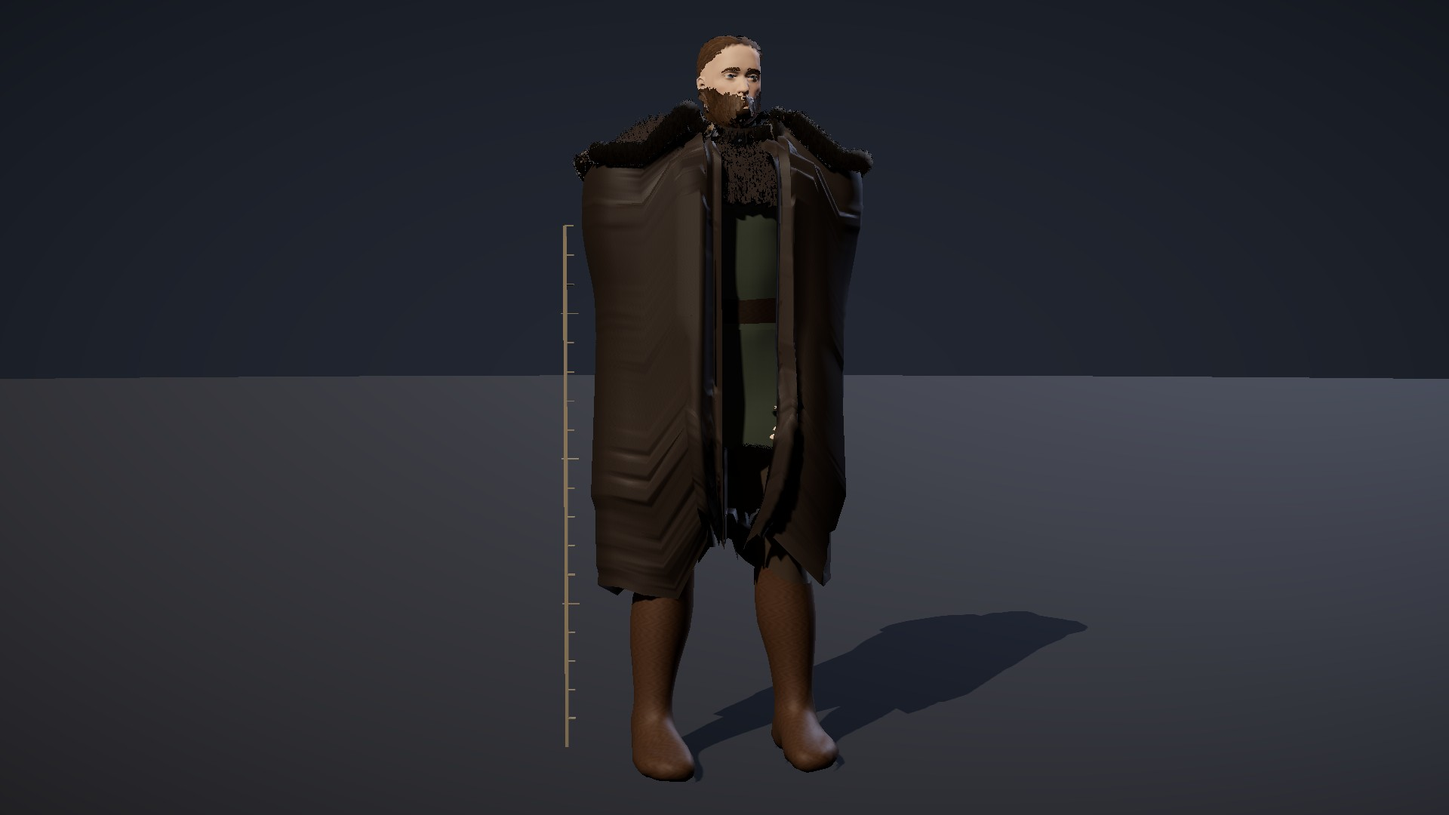
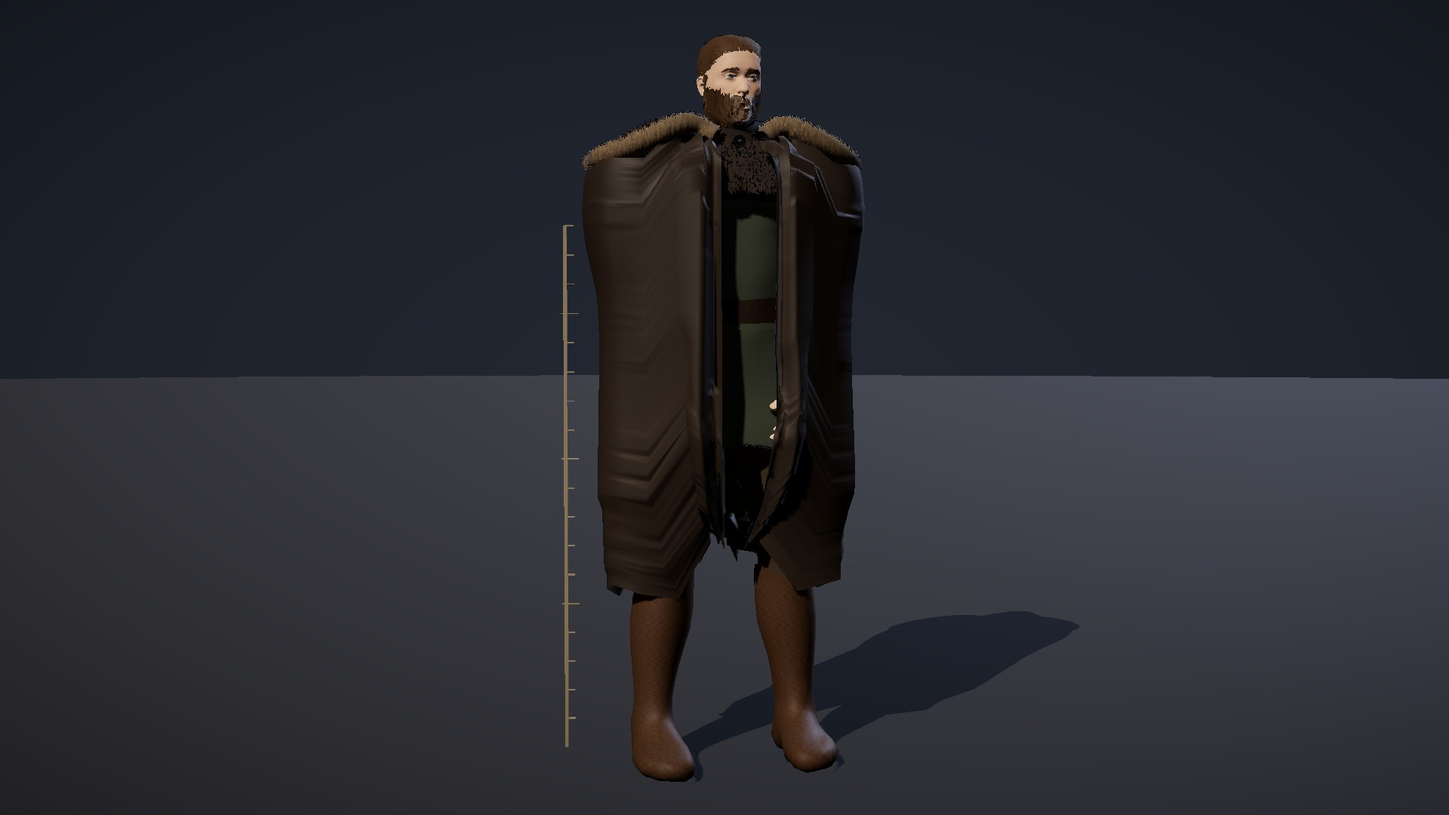
Bodies: Session 1931 — the fur collar turned out, on the hood's line
The cloak's six fur-collar shells were the last tubeGeom roll wound inward: their
shadow lookup fell inside the roll and a tan collar read near black. Turned out,
and laid on hoodLine (3 cm) since the raw ring's repeats left a sixth facing in.
builder.check 680/680 (one new check), f4people 1/1, bundle rebuilt.

Claude-Session: https://claude.ai/code/session_019eFMMoaECGLJPKNGN5rgvg

diff --git a/vendor/people.builder.js b/vendor/people.builder.js
@@ -1016,10 +1016,10 @@ function mergeGeoms(gs) { const pos = [], idx = []; let n = 0; for (const g of g
   const g = new THREE.BufferGeometry(); g.setAttribute('position', new THREE.Float32BufferAttribute(pos, 3)); g.setIndex(idx); g.computeVertexNormals(); return g; }
 // the rolled hood's centre line (Session 1255): the collar's ring repeats points where its columns meet and steps up and down between them,
 // so the roll was a crumpled tube. Points within 4 mm of the last are dropped, the rest smoothed four times (the ends kept) and laid
-// again 1.5 cm apart along a curve through them
-function hoodLine(raw) { const pts = [raw[0]]; for (const q of raw.slice(1)) if (q.distanceTo(pts[pts.length - 1]) > .004) pts.push(q.clone());
+// again 1.5 cm apart along a curve through them (`step`; the fur collar's, Session 1931, 3 cm)
+function hoodLine(raw, step = .015) { const pts = [raw[0]]; for (const q of raw.slice(1)) if (q.distanceTo(pts[pts.length - 1]) > .004) pts.push(q.clone());
   if (pts.length < 3) return raw; for (let it = 0; it < 4; it++) { const prev = pts.map(q => q.clone()); for (let i = 1; i < pts.length - 1; i++) pts[i].lerpVectors(prev[i], prev[i - 1].clone().add(prev[i + 1]).multiplyScalar(.5), .5); }
-  const c = new THREE.CatmullRomCurve3(pts); return c.getSpacedPoints(Math.max(4, Math.round(c.getLength() / .015))); }
+  const c = new THREE.CatmullRomCurve3(pts); return c.getSpacedPoints(Math.max(4, Math.round(c.getLength() / step))); }
 function turnOut(g) { const ix = g.index.array; for (let i = 0; i < ix.length; i += 3) { const t = ix[i + 1]; ix[i + 1] = ix[i + 2]; ix[i + 2] = t; } g.computeVertexNormals(); return g; }
 const lockMat = color => new THREE.MeshStandardMaterial({ map: lockTex(), color, roughness: .78 });
 // a braid's three locks and its core (Session 1501). The locks were laid on the braid's 1 cm line, about four and a half points to a
@@ -1471,10 +1471,13 @@ function buildCloak(G, body, byName, rnd) {
     const bm = new THREE.Mesh(bg, clothMat(sRGB(...D.cloakHem), 'wool', { side: THREE.DoubleSide, scale: 60 })); bm.name = 'cloakHem'; out.push(bm); }
   // a fur lining turned out at the collar (the Markmen's), or the hood rolled on the shoulders
   // (the rolled hood turned out, Session 1255: tubeGeom winds inward and the cloth is single-sided, so the roll drew its own far wall from inside.
-  // The fur collar's shells are left as they are: their shader reads the layer)
+  // The fur collar's shells were left as they were, since their shader reads the layer; Session 1931: it reads the layer and the rest
+  // position, never the normal, so they are turned out too, and the collar no longer reads its own shadow (it went near black). Its line is
+  // the hood's (hoodLine, 3 cm apart): the raw ring's 11 repeated points and a 22 cm jump gave tubeGeom no direction, and a sixth of each
+  // shell faced in)
   const ring = tops.map(t => t.start.clone().addScaledVector(t.n, .012).add(new THREE.Vector3(0, .012, 0)));
   let pointStats = null;
-  if (D.cloakFur && !burnousOn(D)) for (let s = 0; s < 6; s++) { const m = new THREE.Mesh(tubeGeom(ring, ring.map(() => .026 + s * .004), 8), shellMat(sRGB(...D.cloakFur), s, 6, { sx: 260, sy: 70, solid: s === 0 })); m.geometry.setAttribute('aBase', m.geometry.attributes.position); m.name = 'collar' + s; out.push(m); }
+  if (D.cloakFur && !burnousOn(D)) { const fl = hoodLine(ring, .03); for (let s = 0; s < 6; s++) { const m = new THREE.Mesh(turnOut(tubeGeom(fl, fl.map(() => .026 + s * .004), 8)), shellMat(sRGB(...D.cloakFur), s, 6, { sx: 260, sy: 70, solid: s === 0 })); m.geometry.setAttribute('aBase', m.geometry.attributes.position); m.name = 'collar' + s; m.userData.axis = { line: fl, sides: 8 }; out.push(m); } }
   else if (D.hood === 'down') { const kb = Math.round(-th0 / (th1 - th0) * (K - 1)), back = hoodLine(ring.slice(Math.max(0, kb - Math.round(K * .2)), kb + Math.round(K * .2)).map(q => q.clone().lerp(new THREE.Vector3(neck.x, q.y + .025, neck.z), .25))), m = new THREE.Mesh(turnOut(tubeGeom(back, back.map((_, i) => .03 + .018 * Math.sin(Math.PI * i / (back.length - 1))), 10)), clothMat(sRGB(...D.cloak).multiplyScalar(.92), 'wool', { scale: 26, ...cloakPattern(D, [neck.x, neck.z], .2) })); m.geometry.setAttribute('aBase', m.geometry.attributes.position); m.geometry.setAttribute('aTart', m.geometry.attributes.position); m.name = 'hood'; m.userData.axis = { line: back, sides: 10 }; out.push(m);
     if (burnousOn(D)) { const B = buildBurnousPoint(cols, R, kb, neck, back[Math.floor(back.length / 2)].y, D); out.push(...B.meshes); pointStats = B.stats; } }
   // the brooch at the throat, where the two front columns meet

diff --git a/docs/prototypes/levelup/people.js b/docs/prototypes/levelup/people.js
@@ -715,10 +715,10 @@ function mergeGeoms(gs) { const pos = [], idx = []; let n = 0; for (const g of g
   const g = new THREE.BufferGeometry(); g.setAttribute('position', new THREE.Float32BufferAttribute(pos, 3)); g.setIndex(idx); g.computeVertexNormals(); return g; }
 // the rolled hood's centre line (Session 1255): the collar's ring repeats points where its columns meet and steps up and down between them,
 // so the roll was a crumpled tube. Points within 4 mm of the last are dropped, the rest smoothed four times (the ends kept) and laid
-// again 1.5 cm apart along a curve through them
-function hoodLine(raw) { const pts = [raw[0]]; for (const q of raw.slice(1)) if (q.distanceTo(pts[pts.length - 1]) > .004) pts.push(q.clone());
+// again 1.5 cm apart along a curve through them (`step`; the fur collar's, Session 1931, 3 cm)
+function hoodLine(raw, step = .015) { const pts = [raw[0]]; for (const q of raw.slice(1)) if (q.distanceTo(pts[pts.length - 1]) > .004) pts.push(q.clone());
   if (pts.length < 3) return raw; for (let it = 0; it < 4; it++) { const prev = pts.map(q => q.clone()); for (let i = 1; i < pts.length - 1; i++) pts[i].lerpVectors(prev[i], prev[i - 1].clone().add(prev[i + 1]).multiplyScalar(.5), .5); }
-  const c = new THREE.CatmullRomCurve3(pts); return c.getSpacedPoints(Math.max(4, Math.round(c.getLength() / .015))); }
+  const c = new THREE.CatmullRomCurve3(pts); return c.getSpacedPoints(Math.max(4, Math.round(c.getLength() / step))); }
 function turnOut(g) { const ix = g.index.array; for (let i = 0; i < ix.length; i += 3) { const t = ix[i + 1]; ix[i + 1] = ix[i + 2]; ix[i + 2] = t; } g.computeVertexNormals(); return g; }
 const lockMat = color => new THREE.MeshStandardMaterial({ map: lockTex(), color, roughness: .78 });
 // a braid's three locks and its core (Session 1501). The locks were laid on the braid's 1 cm line, about four and a half points to a
@@ -1172,10 +1172,13 @@ function buildCloak(G, body, byName, rnd) {
     const bm = new THREE.Mesh(bg, clothMat(sRGB(...D.cloakHem), 'wool', { side: THREE.DoubleSide, scale: 60 })); bm.name = 'cloakHem'; out.push(bm); }
   // a fur lining turned out at the collar (the Markmen's), or the hood rolled on the shoulders
   // (the rolled hood turned out, Session 1255: tubeGeom winds inward and the cloth is single-sided, so the roll drew its own far wall from inside.
-  // The fur collar's shells are left as they are: their shader reads the layer)
+  // The fur collar's shells were left as they were, since their shader reads the layer; Session 1931: it reads the layer and the rest
+  // position, never the normal, so they are turned out too, and the collar no longer reads its own shadow (it went near black). Its line is
+  // the hood's (hoodLine, 3 cm apart): the raw ring's 11 repeated points and a 22 cm jump gave tubeGeom no direction, and a sixth of each
+  // shell faced in)
   const ring = tops.map(t => t.start.clone().addScaledVector(t.n, .012).add(new THREE.Vector3(0, .012, 0)));
   let pointStats = null;
-  if (D.cloakFur && !burnousOn(D)) for (let s = 0; s < 6; s++) { const m = new THREE.Mesh(tubeGeom(ring, ring.map(() => .026 + s * .004), 8), shellMat(sRGB(...D.cloakFur), s, 6, { sx: 260, sy: 70, solid: s === 0 })); m.geometry.setAttribute('aBase', m.geometry.attributes.position); m.name = 'collar' + s; out.push(m); }
+  if (D.cloakFur && !burnousOn(D)) { const fl = hoodLine(ring, .03); for (let s = 0; s < 6; s++) { const m = new THREE.Mesh(turnOut(tubeGeom(fl, fl.map(() => .026 + s * .004), 8)), shellMat(sRGB(...D.cloakFur), s, 6, { sx: 260, sy: 70, solid: s === 0 })); m.geometry.setAttribute('aBase', m.geometry.attributes.position); m.name = 'collar' + s; m.userData.axis = { line: fl, sides: 8 }; out.push(m); } }
   else if (D.hood === 'down') { const kb = Math.round(-th0 / (th1 - th0) * (K - 1)), back = hoodLine(ring.slice(Math.max(0, kb - Math.round(K * .2)), kb + Math.round(K * .2)).map(q => q.clone().lerp(new THREE.Vector3(neck.x, q.y + .025, neck.z), .25))), m = new THREE.Mesh(turnOut(tubeGeom(back, back.map((_, i) => .03 + .018 * Math.sin(Math.PI * i / (back.length - 1))), 10)), clothMat(sRGB(...D.cloak).multiplyScalar(.92), 'wool', { scale: 26, ...cloakPattern(D, [neck.x, neck.z], .2) })); m.geometry.setAttribute('aBase', m.geometry.attributes.position); m.geometry.setAttribute('aTart', m.geometry.attributes.position); m.name = 'hood'; m.userData.axis = { line: back, sides: 10 }; out.push(m);
     if (burnousOn(D)) { const B = buildBurnousPoint(cols, R, kb, neck, back[Math.floor(back.length / 2)].y, D); out.push(...B.meshes); pointStats = B.stats; } }
   // the brooch at the throat, where the two front columns meet

diff --git a/docs/backlog.md b/docs/backlog.md
@@ -554,7 +554,7 @@ Michael marked all 96 images of the intake on the review page: 63 KEEP and 33 NO
 - **Proportions for people** (look builder, `32-people.js`; OG-012, OG-095; Michael's 1 B): the heroic hybrid, about 1.80 m, slightly longer legs and broader shoulders than naturalistic, so a figure reads at a distance and in a fight. Leave room for the short Old Blood and the tall Markmen on either side.
 - **The creator, with the four peoples** (interface; OG-050): a list of choices on the left, the portrait on the right, six builds (default, stout, lean, tall, young, mature), five silhouettes, a hair-and-beard strip. Its races become the four peoples, Old Blood included (§2.2).
 - **Children, the old and the hurt in towns** (look builder and systems; OG-081, OG-001, OG-065): child-scale people (the towns have only Finn), the elderly, scars and eyepatches, a veteran in a wheeled chair (Garrick), large and small builds. ~~**Scars and eyepatches**~~ — done, Session 1079 (bodies builder; `people.js` `scarSkin`, `G.scar`, `buildEyepatch`, `D.eyepatch`, `builder-hurt-*.jpg`: an old cut from over the brow across the eye to the cheek drawn in the skin's shader, paler, raised and stitched, a gap in the brow; a leather patch 5 by 3.8 cm spanning the socket 1.3 mm off the face on a cord looped over the far temple and the near ear, nothing through either; 1 man in 14 and 1 woman in 40 scarred, a quarter of them patched); ~~**Children**~~ — done, Session 1081 (bodies builder; MakeHuman's child targets in the pack, the age slider from 11, `rollGenome(seed, { people, child: true })`, `builder-children*.jpg`: 11 to 15 years old, 79 to 93 per cent of their people's stature, dressed as their people, nothing a grown body carries, cloaks cut to them; every hair style clear on a child of 11); ~~**The old**~~ — done, Session 1082 (bodies builder; `rollGenome(seed, { people, old: true })`, `pose.stoop`, `builder-old-*.jpg`: 64 to 90, the hair to white or iron grey, a stoop in the upper back on six in ten with the arms still plumb); ~~**The old's walking staff**~~ — done, Session 1085 (bodies builder; `people.js` `buildStaff`, `STAFFS`, `D.staff`, `D.staffMake`, `builder-staff-*.jpg`: in the right fist on the spear's grip, its foot on the ground, bent about a centimetre and true through the fist; a hazel staff with its root knob for the Gatelands, ash shod in iron for the Mark, olive with a bronze knob for Aurenne, and OG-042's and OG-065's tall staff carved in knotwork for the Old Blood; on 25 to 39 of sixty old, none of the grown or the children); ~~a grip that leans on the staff~~ — done, Session 1094 (`STAFF_ARM`: the forearm dropped 38° forward and down, the fist at the belt, 57 to 59 per cent up the body, the staff's foot 8 to 16 cm ahead of the toes; `builder-staff-*.jpg`); ~~the wheeled chair~~ — done, Session 1106 (bodies builder; `people.js` `buildChair`, `SEAT`, `D.chair`, `builder-chair-*.jpg`: Garrick seated, the thighs level and the shins sloped to a footboard, the forearms laid on the chair's arms with the palms turned down over their ends; an oak armchair built to the seated body, 7,700 tris, on two iron-tyred cart wheels 62 cm across and two small ones under the front legs, push handles behind; nothing that hangs to the ground is worn in it, and it is never rolled); ~~his black wolfhound~~ — done, Session 1107 (`creatures.js` `wolfhound`, `HOUNDS`, `creatures-hounds.jpg`: the kit's first dog, a rough-coated sighthound on the wolf's parts, 81 cm at the top of the legs against the grey wolf's 74, deep in the chest and tucked up in the loin, a long narrow head with its ears folded back, 33 bones, 40,164 tris); ~~the crossbow across his knees~~ — done, Session 1116 (`people.js` `buildLapCrossbow`, `builder-chair-crossbow*.jpg`: OG-065's long gun as the crossbow the catalogue asks for, laid level across the thighs over the knees, the bolt's face up, the butt to his right and the prod out past the left wheel, let down to 2 mm off the thighs and moved forward until nothing of it is in the chair or a hand; a crossbow asked with the chair now lies there instead of being dropped); ~~the hound sitting by the chair~~ — done, Session 1114 (`creatures.js` `GAITS.sit`, `sitBody`, `sitLeg`, `creatures-wolfhound-sit*.jpg`: a sit for any four-legged plan, the body pitched up about the shoulders until the haunch and shins are 5 mm off the ground, 52° on the hound, the forefeet where it stands, the hind legs folded with the hocks back and the toes 21 cm ahead of the hips, the tail laid back along the ground and curled round; on the wolfhound, and since Session 1115 on every plan built on the Ironwolf's, the red fox's or the Hollowcat's parts, eleven in all, each tail lifted only as far as its flesh needs); ~~the hound lying down~~ — done, Session 1117 (`GAITS.lie`, `lieLeg`, `creatures-wolfhound-lie*.jpg`: a sphinx's lie, lowered level until the belly and haunch are 5 mm off the ground, the withers from 81 to 24 cm, the forelegs laid forward from the elbow 12 cm ahead of where it stands, the hind legs folded as they sit, the head up); ~~the lie on the other sitters~~ — done, Session 1122 (all eleven plans lie, `creatures-lying.jpg`: the forearm left out of the drop's search and raised by its own, `C.sitF`, so the foxes' and cats' bodies come down to 5 mm and their forearms clear the ground); ~~the hound beside Garrick's chair in one picture~~ — done, Session 1123 (the builder's `with=PLAN` stage, `builder-chair-hound*.jpg`: the wolfhound lying 8 cm off his right wheel, its nose level with the footboard, or sitting 35 cm back, turning with him); ~~the lying head held up~~ — done, Session 1124 (`SIT.lieNeck`: the neck raised 0.3 rad along its bones and the head turned back level, 1 to 5 cm higher on all eleven); ~~the cats sit with their forefeet together~~ — done, Session 1126 (`sitTuck`, `creatures-cats-sit.jpg`, `creatures-hollowcat-sit-front.jpg`: the Hollowcat and both lynxes keep 30% of their forefeet's standing width, 1.5 cm off the middle against 5.0); ~~the cats' tail wrapped round~~ — done, Session 1130; owed: children under 11 (MakeHuman's baby targets), a walk that leans on the staff, the chair pushed (B4), and the game (after F4).
-- **The wardrobe matrix** (look builder, the builder's B2, `docs/design/character-builder.md`; OG-109, OG-110, OG-111): for each island, men's and women's workwear, everyday, formal, travel and winter dress, by class (commoner, merchant, noble, warrior, clergy, scholar), and children's clothes as small copies of their parents'. The Gatelands in wool, linen and leather, earth greens and muted blue, laced bodices, hooded cloaks, tartans a new note; the Mark in heavy wool with fur trims and woven bands; Aurenne in linen, cotton and silk, sashes, turbans and head scarves in saffron, red and teal. OG-110's half-length pairs and its swatches (weave, fur, leather, ironwork clasps) are the close-up reference for the cloth. The canon wins where the sheets drift: the Mark's soldiers in black and iron, and its “runic tattoos” are the gates' marks under the skin (§3.1), not ink. **The Gatelanders' waistcoat, Session 1143** (bodies builder; `people.js` `D.waistcoat`, `waistcoatLeather`, `buildButtons`, `builder-waistcoat-*.jpg`): OG-109's "tunics, waistcoats", a man's sleeveless piece over the tunic in earth green, brown, muted blue or a dark drab, or brown leather on three in ten, a V at the neck and six buttons down the closed front, ending under the belt; on 35% of Gatelander men from a stream of its own; the lapped front's edge drawn as its shadow, Session 1144 (`WAISTCOAT_EDGE`, `clothMat`'s `shade`); owed: the game (after F4), and the rest of the matrix (formal, travel and winter dress by class). **The Gatelanders' tartan, Session 1146** (bodies builder; `people.js` `TARTAN`, `D.tartan`, `D.tartanLine`, `builder-tartan-*.jpg`): OG-111's "tartans", a symmetric sett 16.8 cm across (the cloak's colour as the ground, two dark bands side by side, a fine overcheck) woven in a 2/2 twill on 1.5 mm threads in the shader. It is laid round the wearer from the back's middle, on the cloak, the cape and the hood up or down. Rolled on no one until Michael answers where it goes (DECISION #445); owed: that answer, the roll, and the game (after F4). **The Gatelanders' winter coat, Session 1147** (bodies builder; `people.js` `D.coat`, `D.coatFur`, `coatLen`, `coatOn`, `coatStats`, `builder-coat-*.jpg`): OG-109's winter column, "fur-lined winter coats": a wool coat over the tunic, sleeves to the wrist, a skirt flaring to mid-calf (`coatLen` .75; 0 a jacket, 1 the ankle), the right front lapped over the left and belted over; a fur trim at the collar, down the lapping edge, round the cuffs and the hem, seven shells cut from the regions they cover. It takes the place of the cloak, mantle, apron, sash, shoulder wrap, waistcoat and bodice, and gives way to a robe, mail, a tabard or the chair. Rolled on no one: who wears it, and when, is the season's (the game's) to say; owed: the Mark's fur-lined hooded coat, and the game (after F4). ~~**Worn in the game**~~ — done, Session 1763 (`hbSeasonDress`, `HB_WINTER`, `f4-winter.jpg`): in winter, out of doors, a Gatelander one in two (fur-trimmed on half), a Markman 0.85 (fur-lined, hooded, the hood up on three in ten), the Old Blood 0.35, an Aurennais one in four in the burnous; none indoors, none on a guard, a robe or the chair; keyed `<key>|winter`; `f4people`. **The Gatelanders' tartan, Sessions 1146 and 1151** (bodies builder; `people.js` `TARTAN`, `D.tartan`, `tartanLine`, `PEOPLES.gatelander.setts`, `builder-tartan-*.jpg`): a sett woven into the cloak, the cape and the hood; Michael's A on #445, a note on cloaks: one Gatelander cloak or cape in five, in one of three setts, nobody else. Owed: the game after F4. **The Mark's fur-lined hooded coat, Session 1152** (bodies builder; `people.js` `D.coatHood`, `hoodUpOn`, `buildHoodUp`'s `clr` and `fur`, `builder-coathood-*.jpg`): OG-109's Mark column, the winter coat's hood up in its wool with a fur ruff round the face (seven shells, 11.8 to 13.1k triangles; ~~its cost~~ — Session 1165: 4.9 to 5.5k, the triangles its shader discards whole left out). The hood down, Session 1153 (`buildCoatHoodDown`, `rollAt`, `builder-coathood-down-*.jpg`): a roll of the coat's wool across the upper back, 768 triangles, the hair set out over it. Owed: the game after F4. **The Mark's formal dress, its woven bands, Session 1156** (bodies builder; `people.js` `D.bands`, `D.bandsMotif`, `LOZ`, `builder-bands-*.jpg`): OG-109's Mark formal column, "blue and red, with woven bands": a tablet-woven band in the shader at the tunic's neck, round both cuffs (built in the tunic's colour where there were none) and 4 cm up the skirt's hem, short or long; a ground with a thread of the motif at each edge and a row of lozenges, stepped to the threads. None under a coat or a robe. ~~Rolled on no one: who dresses formally, and when, is the game's (rank, a feast) to say~~ — **worn on the feasts, Session 1767** (`hbFeastDress`, `HB_FEAST`, `f4-feast.jpg`): on the four feasts seven in ten of the Mark's folk, indoors and out, a man's tunic to the knee, the apron off; keyed `<key>|feast`; `f4people`. Owed: by rank on other days (no rank in a townsperson's def yet). ~~A long gown's band fitted to its own ragged cut~~ — done, Session 1163 (`lozHemY`, a table of 48 heights round the body; `builder-bands-hem*.jpg`). ~~The formal tunic worn longer~~ — done, Session 1164 (`skirt: 'knee'`, the long skirt's shell cut at rest -.345, at the kneecap, the band on its hem; `builder-knee-*.jpg`). ~~The women's mantle over the gown~~ — done, Session 1203 (OG-110's Mark woman in white fur over blue: two in five of the Mark women's fur mantles in white fox, cream ermine or snow hare, `PALE_FUR`, from a stream of their own; and every mantle's hem, neckline and arm edges cut in the shader, `MANTLE_CUT`, the outer shells thinning to the edge and the collar folding in on the throat; `builder-mantle-*.jpg`). Owed: the game after F4. **The Aurennais men's striped robe, Session 1205** (bodies builder; `people.js` `STRIPES`, `stripeOf`, `D.robeStripe`, `D.robeStripeLine`, `PEOPLES.aurennais.robes`, `builder-striped-*.jpg`): OG-110's Aurenne man "in a striped robe" and OG-109's flowing robes: the robe woven with warp stripes in the shader, 5.6 cm a repeat (the ground, a 1.6 cm stripe, a 0.4 cm fine line), laid round the torso's axis down the body and the skirt (17 repeats round, no seam) and round each arm's own axis down the sleeve (shoulder to elbow, elbow to wrist); one Aurennais man in five wears a robe in place of the tunic and trousers, three in four of them striped, in five Aurenne colourways, from a stream of its own. Owed: the game after F4. **The Aurennais women's circlet, Session 1206** (bodies builder; `people.js` `buildCirclet`, `CIRCLET`, `circletOn`, `D.circlet`, `D.circletStone`, `builder-circlet-*.jpg`): OG-110's Aurenne woman "in red and gold with a circlet": a band 7 mm high of gold or bronze round the head over the hair, 2.6 cm over the brows at the front, 2.2 cm lower at the back, 8 mm over the ears, fitted in 96 directions to the furthest point of the head or hair at its height, with a garnet or teal stone in an oval setting at the brow; 1,536 triangles in 3 draws, on the head bone; on 15% of the bare-headed Aurennais women, from a stream of its own. ~~OG-110's red and gold gown~~ — done, Session 1220. Owed: the game after F4. **The Aurennais women's embroidered gown, Session 1220** (bodies builder; `people.js` `EMB`, `embOf`, `embHem`, `D.gownBorder`, `PEOPLES.aurennais.gown`, `builder-gown-*.jpg`): OG-110's Aurenne woman "in red and gold" and OG-109's "embroidered formal dress in saffron, red and teal": a border embroidered in the shader on the gown's own cloth at the neck (2.8 cm, six waves round), the sleeves' ends (3.6 cm, six waves) and 2 cm up the hem (5.5 cm, thirteen waves round a long gown, off the cut's own table): a couched cord at each edge, a running vine with a ring and knot in each bay and a leaf at each crossing, satin-stitched, a little proud, lit as metal; one Aurennais woman in five in a long skirt and no apron, bodice and skirt in one cloth (madder on half, saffron or teal), gold thread (madder on two in five saffron gowns), from a stream of its own; 0 triangles added. Owed: the game after F4; ~~the sleeve's end ragged close in (S1220's note)~~ — done, Session 1228 (every sleeve number read on the forearm's own axis, `slvX`/`SLV_T`, so the cut, the cuffs, the bands and the border run square round the wrist, and the skin under the end is whole; `builder-sleeve-*.jpg`); ~~the neck border's lower cord clipped at the shoulder~~ — done, Session 1230 (the foot of a band round the neck, the gown's and the Mark's woven bands', is read off a table of 48 heights measured down the tunic's own surface, so it stops at the neck's base; `neckBandY`, `builder-neck-*.jpg`). **The Aurennais' burnous, Session 1236** (bodies builder; `people.js` `D.burnous`, `D.burnousStripe`, `burnousOn`, `burnousOf`, the hood's point and `tassel`, `builder-burnous-*.jpg`): OG-109's Aurenne winter column, the hooded cloak over the robe for the cold nights: the cloak woven with the robe's warp stripes in the burnous stripe's colour (34 repeats round the neck), tied at the throat with a knot of its own cord in place of the brooch; its raised hood drawn out to a point behind the crown, striped 17 round the head, with a tassel of 16 threads on a cord from the point; no tartan or fur; the hood down striped. Rolled on no one: when it is worn is the season's (the game's) to say, as the Gatelanders' coat. ~~The game~~ — done, Session 1763 (with the coats, below); ~~the hood down as a point hanging down the back (today it is the plain cloak's roll)~~ — done, Session 1770 (`buildBurnousPoint`, `BPOINT`, `tasselGeom`: below the roll a pointed bag of the striped wool 24 cm across, 34 cm down to its tassel, 8 mm off the cloak; 1,088 + 420 triangles; `builder-burnous-point*.jpg`; in the game through the bundle); ~~OG-109's Aurenne travel column (the head-wrap drawn across the face)~~ — done, Session 1237. **The Aurennais' veil, Session 1237** (bodies builder; `people.js` `buildVeil`, `veilOn`, `D.veil`, `builder-veil-*.jpg`): OG-109's Aurenne travel column, the head-wrap's end drawn across the face against the road's dust and sun: a band of cloth from 6 mm under the lower lids to 2 cm under the chin (and over a beard), rising past the eyes over the cheekbones and the ears to tuck under the wrap's lowest turn and round the nape, laid 5 mm clear on a radial map of what it covers and spanning from the nose to the chin as cloth does, with a rolled hem; 6,528 triangles in 1 draw on the head bone; in its own colour (indigo, or the wrap's); no ear-rings under it; only with a wrap that is not a headscarf. Rolled on no one: who is on the road is the game's. Owed: the game after F4. **The head-wrap's rolls turned out, Session 1238** (bodies builder; `buildWrap`'s turns and crossing turns and the veil's hems through `turnOut`, the `outward` stat): every wrap, turban and headscarf read its own shadow (its rolls' normals pointed in, so `normalBias` moved the lookup inside them) and went grey; a white turban now reads white (`builder-turban-man.jpg` against `-before`). Owed: the same pass on the other rolls `tubeGeom` builds (the cloak's hood roll and the braids first).
+- **The wardrobe matrix** (look builder, the builder's B2, `docs/design/character-builder.md`; OG-109, OG-110, OG-111): for each island, men's and women's workwear, everyday, formal, travel and winter dress, by class (commoner, merchant, noble, warrior, clergy, scholar), and children's clothes as small copies of their parents'. The Gatelands in wool, linen and leather, earth greens and muted blue, laced bodices, hooded cloaks, tartans a new note; the Mark in heavy wool with fur trims and woven bands; Aurenne in linen, cotton and silk, sashes, turbans and head scarves in saffron, red and teal. OG-110's half-length pairs and its swatches (weave, fur, leather, ironwork clasps) are the close-up reference for the cloth. The canon wins where the sheets drift: the Mark's soldiers in black and iron, and its “runic tattoos” are the gates' marks under the skin (§3.1), not ink. **The Gatelanders' waistcoat, Session 1143** (bodies builder; `people.js` `D.waistcoat`, `waistcoatLeather`, `buildButtons`, `builder-waistcoat-*.jpg`): OG-109's "tunics, waistcoats", a man's sleeveless piece over the tunic in earth green, brown, muted blue or a dark drab, or brown leather on three in ten, a V at the neck and six buttons down the closed front, ending under the belt; on 35% of Gatelander men from a stream of its own; the lapped front's edge drawn as its shadow, Session 1144 (`WAISTCOAT_EDGE`, `clothMat`'s `shade`); owed: the game (after F4), and the rest of the matrix (formal, travel and winter dress by class). **The Gatelanders' tartan, Session 1146** (bodies builder; `people.js` `TARTAN`, `D.tartan`, `D.tartanLine`, `builder-tartan-*.jpg`): OG-111's "tartans", a symmetric sett 16.8 cm across (the cloak's colour as the ground, two dark bands side by side, a fine overcheck) woven in a 2/2 twill on 1.5 mm threads in the shader. It is laid round the wearer from the back's middle, on the cloak, the cape and the hood up or down. Rolled on no one until Michael answers where it goes (DECISION #445); owed: that answer, the roll, and the game (after F4). **The Gatelanders' winter coat, Session 1147** (bodies builder; `people.js` `D.coat`, `D.coatFur`, `coatLen`, `coatOn`, `coatStats`, `builder-coat-*.jpg`): OG-109's winter column, "fur-lined winter coats": a wool coat over the tunic, sleeves to the wrist, a skirt flaring to mid-calf (`coatLen` .75; 0 a jacket, 1 the ankle), the right front lapped over the left and belted over; a fur trim at the collar, down the lapping edge, round the cuffs and the hem, seven shells cut from the regions they cover. It takes the place of the cloak, mantle, apron, sash, shoulder wrap, waistcoat and bodice, and gives way to a robe, mail, a tabard or the chair. Rolled on no one: who wears it, and when, is the season's (the game's) to say; owed: the Mark's fur-lined hooded coat, and the game (after F4). ~~**Worn in the game**~~ — done, Session 1763 (`hbSeasonDress`, `HB_WINTER`, `f4-winter.jpg`): in winter, out of doors, a Gatelander one in two (fur-trimmed on half), a Markman 0.85 (fur-lined, hooded, the hood up on three in ten), the Old Blood 0.35, an Aurennais one in four in the burnous; none indoors, none on a guard, a robe or the chair; keyed `<key>|winter`; `f4people`. **The Gatelanders' tartan, Sessions 1146 and 1151** (bodies builder; `people.js` `TARTAN`, `D.tartan`, `tartanLine`, `PEOPLES.gatelander.setts`, `builder-tartan-*.jpg`): a sett woven into the cloak, the cape and the hood; Michael's A on #445, a note on cloaks: one Gatelander cloak or cape in five, in one of three setts, nobody else. Owed: the game after F4. **The Mark's fur-lined hooded coat, Session 1152** (bodies builder; `people.js` `D.coatHood`, `hoodUpOn`, `buildHoodUp`'s `clr` and `fur`, `builder-coathood-*.jpg`): OG-109's Mark column, the winter coat's hood up in its wool with a fur ruff round the face (seven shells, 11.8 to 13.1k triangles; ~~its cost~~ — Session 1165: 4.9 to 5.5k, the triangles its shader discards whole left out). The hood down, Session 1153 (`buildCoatHoodDown`, `rollAt`, `builder-coathood-down-*.jpg`): a roll of the coat's wool across the upper back, 768 triangles, the hair set out over it. Owed: the game after F4. **The Mark's formal dress, its woven bands, Session 1156** (bodies builder; `people.js` `D.bands`, `D.bandsMotif`, `LOZ`, `builder-bands-*.jpg`): OG-109's Mark formal column, "blue and red, with woven bands": a tablet-woven band in the shader at the tunic's neck, round both cuffs (built in the tunic's colour where there were none) and 4 cm up the skirt's hem, short or long; a ground with a thread of the motif at each edge and a row of lozenges, stepped to the threads. None under a coat or a robe. ~~Rolled on no one: who dresses formally, and when, is the game's (rank, a feast) to say~~ — **worn on the feasts, Session 1767** (`hbFeastDress`, `HB_FEAST`, `f4-feast.jpg`): on the four feasts seven in ten of the Mark's folk, indoors and out, a man's tunic to the knee, the apron off; keyed `<key>|feast`; `f4people`. Owed: by rank on other days (no rank in a townsperson's def yet). ~~A long gown's band fitted to its own ragged cut~~ — done, Session 1163 (`lozHemY`, a table of 48 heights round the body; `builder-bands-hem*.jpg`). ~~The formal tunic worn longer~~ — done, Session 1164 (`skirt: 'knee'`, the long skirt's shell cut at rest -.345, at the kneecap, the band on its hem; `builder-knee-*.jpg`). ~~The women's mantle over the gown~~ — done, Session 1203 (OG-110's Mark woman in white fur over blue: two in five of the Mark women's fur mantles in white fox, cream ermine or snow hare, `PALE_FUR`, from a stream of their own; and every mantle's hem, neckline and arm edges cut in the shader, `MANTLE_CUT`, the outer shells thinning to the edge and the collar folding in on the throat; `builder-mantle-*.jpg`). Owed: the game after F4. **The Aurennais men's striped robe, Session 1205** (bodies builder; `people.js` `STRIPES`, `stripeOf`, `D.robeStripe`, `D.robeStripeLine`, `PEOPLES.aurennais.robes`, `builder-striped-*.jpg`): OG-110's Aurenne man "in a striped robe" and OG-109's flowing robes: the robe woven with warp stripes in the shader, 5.6 cm a repeat (the ground, a 1.6 cm stripe, a 0.4 cm fine line), laid round the torso's axis down the body and the skirt (17 repeats round, no seam) and round each arm's own axis down the sleeve (shoulder to elbow, elbow to wrist); one Aurennais man in five wears a robe in place of the tunic and trousers, three in four of them striped, in five Aurenne colourways, from a stream of its own. Owed: the game after F4. **The Aurennais women's circlet, Session 1206** (bodies builder; `people.js` `buildCirclet`, `CIRCLET`, `circletOn`, `D.circlet`, `D.circletStone`, `builder-circlet-*.jpg`): OG-110's Aurenne woman "in red and gold with a circlet": a band 7 mm high of gold or bronze round the head over the hair, 2.6 cm over the brows at the front, 2.2 cm lower at the back, 8 mm over the ears, fitted in 96 directions to the furthest point of the head or hair at its height, with a garnet or teal stone in an oval setting at the brow; 1,536 triangles in 3 draws, on the head bone; on 15% of the bare-headed Aurennais women, from a stream of its own. ~~OG-110's red and gold gown~~ — done, Session 1220. Owed: the game after F4. **The Aurennais women's embroidered gown, Session 1220** (bodies builder; `people.js` `EMB`, `embOf`, `embHem`, `D.gownBorder`, `PEOPLES.aurennais.gown`, `builder-gown-*.jpg`): OG-110's Aurenne woman "in red and gold" and OG-109's "embroidered formal dress in saffron, red and teal": a border embroidered in the shader on the gown's own cloth at the neck (2.8 cm, six waves round), the sleeves' ends (3.6 cm, six waves) and 2 cm up the hem (5.5 cm, thirteen waves round a long gown, off the cut's own table): a couched cord at each edge, a running vine with a ring and knot in each bay and a leaf at each crossing, satin-stitched, a little proud, lit as metal; one Aurennais woman in five in a long skirt and no apron, bodice and skirt in one cloth (madder on half, saffron or teal), gold thread (madder on two in five saffron gowns), from a stream of its own; 0 triangles added. Owed: the game after F4; ~~the sleeve's end ragged close in (S1220's note)~~ — done, Session 1228 (every sleeve number read on the forearm's own axis, `slvX`/`SLV_T`, so the cut, the cuffs, the bands and the border run square round the wrist, and the skin under the end is whole; `builder-sleeve-*.jpg`); ~~the neck border's lower cord clipped at the shoulder~~ — done, Session 1230 (the foot of a band round the neck, the gown's and the Mark's woven bands', is read off a table of 48 heights measured down the tunic's own surface, so it stops at the neck's base; `neckBandY`, `builder-neck-*.jpg`). **The Aurennais' burnous, Session 1236** (bodies builder; `people.js` `D.burnous`, `D.burnousStripe`, `burnousOn`, `burnousOf`, the hood's point and `tassel`, `builder-burnous-*.jpg`): OG-109's Aurenne winter column, the hooded cloak over the robe for the cold nights: the cloak woven with the robe's warp stripes in the burnous stripe's colour (34 repeats round the neck), tied at the throat with a knot of its own cord in place of the brooch; its raised hood drawn out to a point behind the crown, striped 17 round the head, with a tassel of 16 threads on a cord from the point; no tartan or fur; the hood down striped. Rolled on no one: when it is worn is the season's (the game's) to say, as the Gatelanders' coat. ~~The game~~ — done, Session 1763 (with the coats, below); ~~the hood down as a point hanging down the back (today it is the plain cloak's roll)~~ — done, Session 1770 (`buildBurnousPoint`, `BPOINT`, `tasselGeom`: below the roll a pointed bag of the striped wool 24 cm across, 34 cm down to its tassel, 8 mm off the cloak; 1,088 + 420 triangles; `builder-burnous-point*.jpg`; in the game through the bundle); ~~OG-109's Aurenne travel column (the head-wrap drawn across the face)~~ — done, Session 1237. **The Aurennais' veil, Session 1237** (bodies builder; `people.js` `buildVeil`, `veilOn`, `D.veil`, `builder-veil-*.jpg`): OG-109's Aurenne travel column, the head-wrap's end drawn across the face against the road's dust and sun: a band of cloth from 6 mm under the lower lids to 2 cm under the chin (and over a beard), rising past the eyes over the cheekbones and the ears to tuck under the wrap's lowest turn and round the nape, laid 5 mm clear on a radial map of what it covers and spanning from the nose to the chin as cloth does, with a rolled hem; 6,528 triangles in 1 draw on the head bone; in its own colour (indigo, or the wrap's); no ear-rings under it; only with a wrap that is not a headscarf. Rolled on no one: who is on the road is the game's. Owed: the game after F4. **The head-wrap's rolls turned out, Session 1238** (bodies builder; `buildWrap`'s turns and crossing turns and the veil's hems through `turnOut`, the `outward` stat): every wrap, turban and headscarf read its own shadow (its rolls' normals pointed in, so `normalBias` moved the lookup inside them) and went grey; a white turban now reads white (`builder-turban-man.jpg` against `-before`). ~~Owed: the same pass on the other rolls `tubeGeom` builds (the cloak's hood roll and the braids first).~~ — done: the braids, the bun and the lowered hood in Session 1255, the thin rolls in Session 1262, and the last, the cloak's fur collar (six shells, near black in its own shadow), Session 1931 (`builder-cloak-markman*.jpg` against `-before`).
 
 ### L2. Named people (quest writer for the words, look builder for the faces)
 - **Act I's faces** (OG-069 for the turnarounds, OG-057 for the props and secrets, OG-001 for the gallery): Bram grey at the forge (canon's thirty years), Edna, Corwin, Niamh and Áine as Gatelanders. Corwin's people is never said (Michael's 11 C). **The five as the builder's cast, Session 1792** (bodies builder; `people.js` `CAST`, `castGenome`; `32-people.js` `hbCastName`, `hbCastDriver`; `docs/prototypes/f4/f4-cast-*.jpg`): each drawn from OG-069 over a genome rolled from the name, the dress the sheet's alone (Bram grey, 1.82, the leather apron and bib; Edna 70, white bun, the green cape; Corwin madder and an ochre-gold waistcoat; Niamh the black hooded cloak; Áine the white plait and the red cape with its blue border); in the game at Ashenmoor (Corwin authored anywhere), the driver at the sheet's sex, age and stature (`f4people` +2). Owed: ~~Bram's rolled sleeves~~ (done, Session 1841: rolled above the elbow, three turns 4.3 cm wide off the arm's own skin, the tunic holed under it and the forearm bare; `people.js` `ROLL`, `uaOf`, any genome's `dress.sleevesRolled`; the far copy's driver keeps its sleeves), ~~Bram's hammer~~ (done, Session 1835: a cross-peen hand hammer, 34 cm ash haft and an 11.5 cm iron head, held head up by the haft's throat in his right fist; `people.js` `buildHammer`, any genome's `dress.hammer`; the far copy carries the driver's hammer), ~~Edna's pipe~~ (done, Session 1816: a short white clay cutty in the left corner of her mouth, on the head, its ember lit; `people.js` `buildPipe`, any genome's `dress.pipe`), ~~Corwin's open coat~~ (done, Session 1846: the kit's coat worn open, `dress.coatOpen`, its fronts holed from the collar to the hem over the waistcoat and belt, gold at its edges, `dress.coatTrim`; Corwin's red, to the knee, over a linen shirt; the far copy in the coat's colour, `hbTint`), ~~Corwin's tankard~~ (done, Session 1829: pewter, 15 cm, of ale, by its handle in his right fist, upright at his waist, the thumb on its thumb-piece; `people.js` `buildTankard`, any genome's `dress.tankard`), ~~Niamh's lantern~~ (done, Session 1809: a horn lantern of blackened iron in her right fist, lit; `people.js` `buildLantern`, any genome's `dress.lantern`), the two sticks (below), Niamh and Áine in the world (they live in the placeholder zones only).

diff --git a/docs/devlog/1931.md b/docs/devlog/1931.md
@@ -1,0 +1,39 @@
+## v80 — Session 1931 — the fur collar turned out: a Markman's collar is fur, not a black ring (L1; the last roll; Session 1238's note)
+The run's first item. Section I holds nothing new for the bodies builder (Pádraig's 4 mm is still watched, not seen again), the critic's
+6 Nov notes were all taken by the last run (Sessions 1923–1930), and no answer is waiting on this lane. So the backlog's oldest owed
+line in the wardrobe matrix: Session 1238's "the same pass on the other rolls `tubeGeom` builds".
+
+`tubeGeom` winds its faces inward, so a roll's normals point into it. On a double-sided material the shading still faces the eye, but
+the shadow's lookup is moved along the vertex normal (`normalBias`), so it lands inside the roll and the roll reads its own shadow.
+Session 1238 turned out the head-wraps, Session 1255 the braids, the bun and the lowered hood, and Session 1262 the thin rolls. One roll
+was left: the cloak's fur collar, six shells at 2.6 to 4.6 cm round the cloak's top. Sessions 1238 and 1255 left it alone because "their
+shader reads the layer" and had not been checked. It was worth checking. A collar of [.5,.42,.32], a mid tan, read near black on the
+front and the back (`builder-cloak-markman-front-before.jpg`, `builder-cloak-markman-before.jpg`).
+
+**What changed** (`docs/prototypes/levelup/people.js`, `buildCloak`; `vendor/people.builder.js` rebuilt).
+- `shellMat` reads the layer (`L`) and the rest position (`aBase`, `vRP`), never the normal. Turning the shells out changes their
+  winding and normals only. The radii, the strands and the cut are as they were.
+- So `turnOut` on each of the six shells, as on every other roll.
+- Turned out alone, only 82 to 85% of each shell's points faced out (the new check, its first run). The collar's line was the raw ring
+  of the cloak's tops: 56 points, 11 of them repeats (a step under 4 mm) and one jump of 22 cm. Session 1255 found the same ring under
+  the lowered hood. A zero step gives `tubeGeom` no direction, so the tube's frame flipped there and a sixth of each shell faced in.
+- So the collar now runs on the hood's line, `hoodLine` (repeats dropped, smoothed four times, laid out again). `hoodLine` takes a step
+  now, 1.5 cm by default as before; the collar's is 3 cm, 60 points. Every shell faces out at 100%. Each shell is 944 triangles, was
+  880: 5,664 for the collar, 384 more. 0 draws added.
+- Each shell carries `userData.axis` (its line and 8 sides), so the rolls check can measure it.
+- The collar's outline is smoother: the lumps where the raw ring jumped at the shoulders' points are gone, and it lies as one roll.
+- The Markmen's cloaks roll the fur collar on seven in ten (`P.fur`), so this reaches most cloaked Markmen in the game's new look.
+
+### Verified (headless Chromium)
+- `builder.check.mjs` 680/680, all passed (its first run, with the shells turned out on the raw ring, failed the new check at 82–85%).
+- One check new, in Session 1255's rolls block: `fur collar`, all six shells' points facing out of their line (> 0.95 wanted): 100% on each.
+- `people_bundle.py --check` matches; the pack is untouched (`vendor/mh-pack.js` built with `--pack /nonexistent`, S1443).
+- `node tests/run.mjs f4people --no-retry` on the rebuilt bundle: 1/1, 32 checks; Dunmore at noon 827 calls, 737 at worst in the
+  thickest crowd, under the 1,000. `parsecheck` clean.
+- Pictures: `builder-cloak-markman-front.jpg` and `builder-cloak-markman.jpg`, retaken, against their `-before`. The collar reads tan
+  fur on both sides, its tips lit along the shoulders.
+
+### Needs eyes
+- The cloak under it. From the front the long cloak still falls from the shoulders' width nearly straight to the knee, a wide box over
+  the arms, and from behind a seam runs down its middle. Session 1255 noted the cloak's own drape as "next"; it is Session 839's hang
+  (`buildHang`), and whether it wants to come in closer below the hands is a look call, not taken here.
